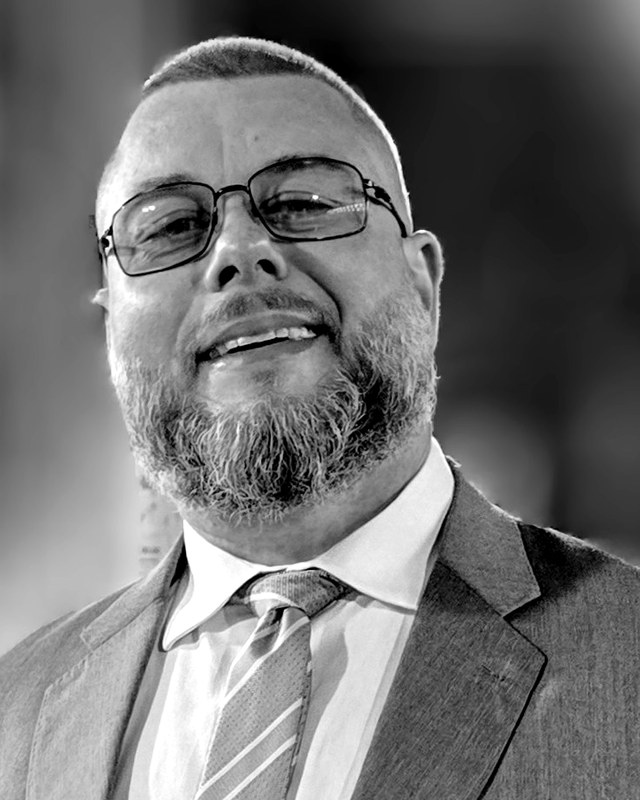
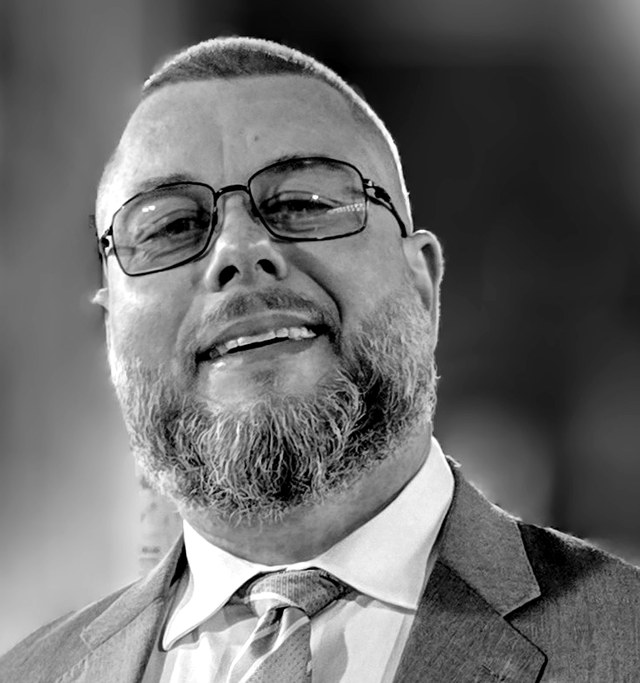
Retrato com enquadramento mais curto
Claude-Session: https://claude.ai/code/session_01NrC6XiSPHuVcpqhdrV3C4h

diff --git a/index.html b/index.html
@@ -215,7 +215,7 @@ footer .oab{font-family:var(--display);font-weight:400;font-size:12px;letter-spa
           <p class="eyebrow">O escritório</p>
           <h2>Quem atende é quem cuida do caso.</h2>
           <figure class="retrato">
-            <img src="foto.jpg" alt="Ricardo Godoy Tavares Pinto" width="640" height="800">
+            <img src="foto.jpg" alt="Ricardo Godoy Tavares Pinto" width="640" height="683">
             <figcaption>Ricardo Godoy Tavares Pinto<br>OAB/SP nº 233.389</figcaption>
           </figure>
         </div>
